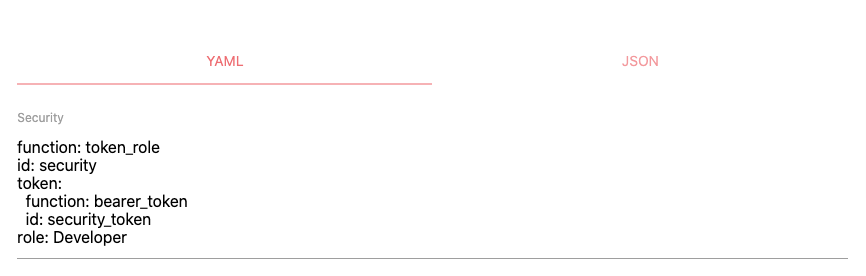
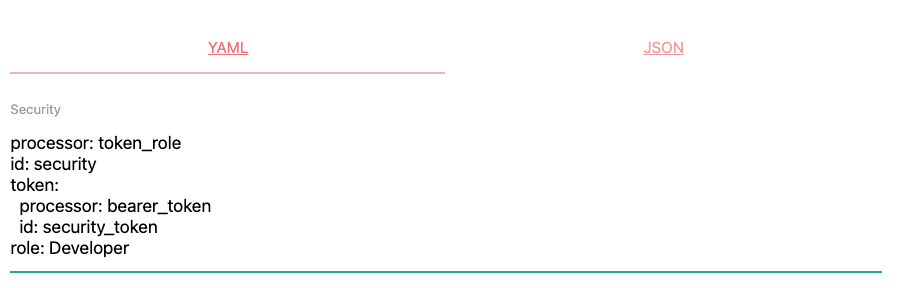
#54 Missed wiki documentations changes.

diff --git a/includes/wiki/running-apiopenstudio/core-resources.md b/includes/wiki/running-apiopenstudio/core-resources.md
@@ -117,16 +117,16 @@ All get, post and uri params should be url encoded.
         <td style="width: fit-content; white-space: nowrap">/apiopenstudio/core/application/33/3/new%name</td>
     </tr>
     <tr>
-        <td style="width: fit-content; white-space: nowrap">Functions</td>
-        <td style="width: fit-content; white-space: nowrap">Fetch details of all functions</td>
-        <td style="width: fit-content; white-space: nowrap">functions</td>
-        <td style="width: fit-content; white-space: nowrap">functions</td>
+        <td style="width: fit-content; white-space: nowrap">Processors</td>
+        <td style="width: fit-content; white-space: nowrap">Fetch details of all processors</td>
+        <td style="width: fit-content; white-space: nowrap">processors</td>
+        <td style="width: fit-content; white-space: nowrap">processors</td>
         <td style="width: fit-content; white-space: nowrap">GET</td>
         <td style="width: fit-content; white-space: nowrap"></td>
         <td style="width: fit-content; white-space: nowrap"></td>
-        <td style="width: fit-content; white-space: nowrap">0 -> machine name</td>
+        <td style="width: fit-content; white-space: nowrap">0 -> machine name or 'all'</td>
         <td style="width: fit-content; white-space: nowrap"></td>
-        <td style="width: fit-content; white-space: nowrap">/apiopenstudio/core/functions<br />/apiopenstudio/core/functions/account_read</td>
+        <td style="width: fit-content; white-space: nowrap">/apiopenstudio/core/processors/all<br />/apiopenstudio/core/processors/account_read</td>
     </tr>
     <tr>
         <td style="width: fit-content; white-space: nowrap">Invite accept</td>

diff --git a/includes/wiki/how-it-works.md b/includes/wiki/how-it-works.md
@@ -63,15 +63,15 @@ It defines everything about a resource, such as:
 * The flow of data between functions from input/s to the final output.
 * The format of the output, which can be JSON, XML, text, file, image, etc.
 
-### Functions
+### Processors
 
-Functions are the semantic blocks used in the processing of the incoming data.
+Processors are the semantic blocks used in the processing of the incoming data.
 
-You should not need to create any Function classes, thus eliminating the need
+You should not need to create any Processor classes, thus eliminating the need
 for time-consuming programming.
 
-There are many functions available with ApiOpenStudio core, but you can add more
-functions from the community, or even create custom ones yourself. These can all
+There are many processors available with ApiOpenStudio core, but you can add more
+processors from the community, or even create custom ones yourself. These can all
 me maintained using composer.
 
 [gitlab_admin]: https://gitlab.com/john89/api_open_studio_admin
